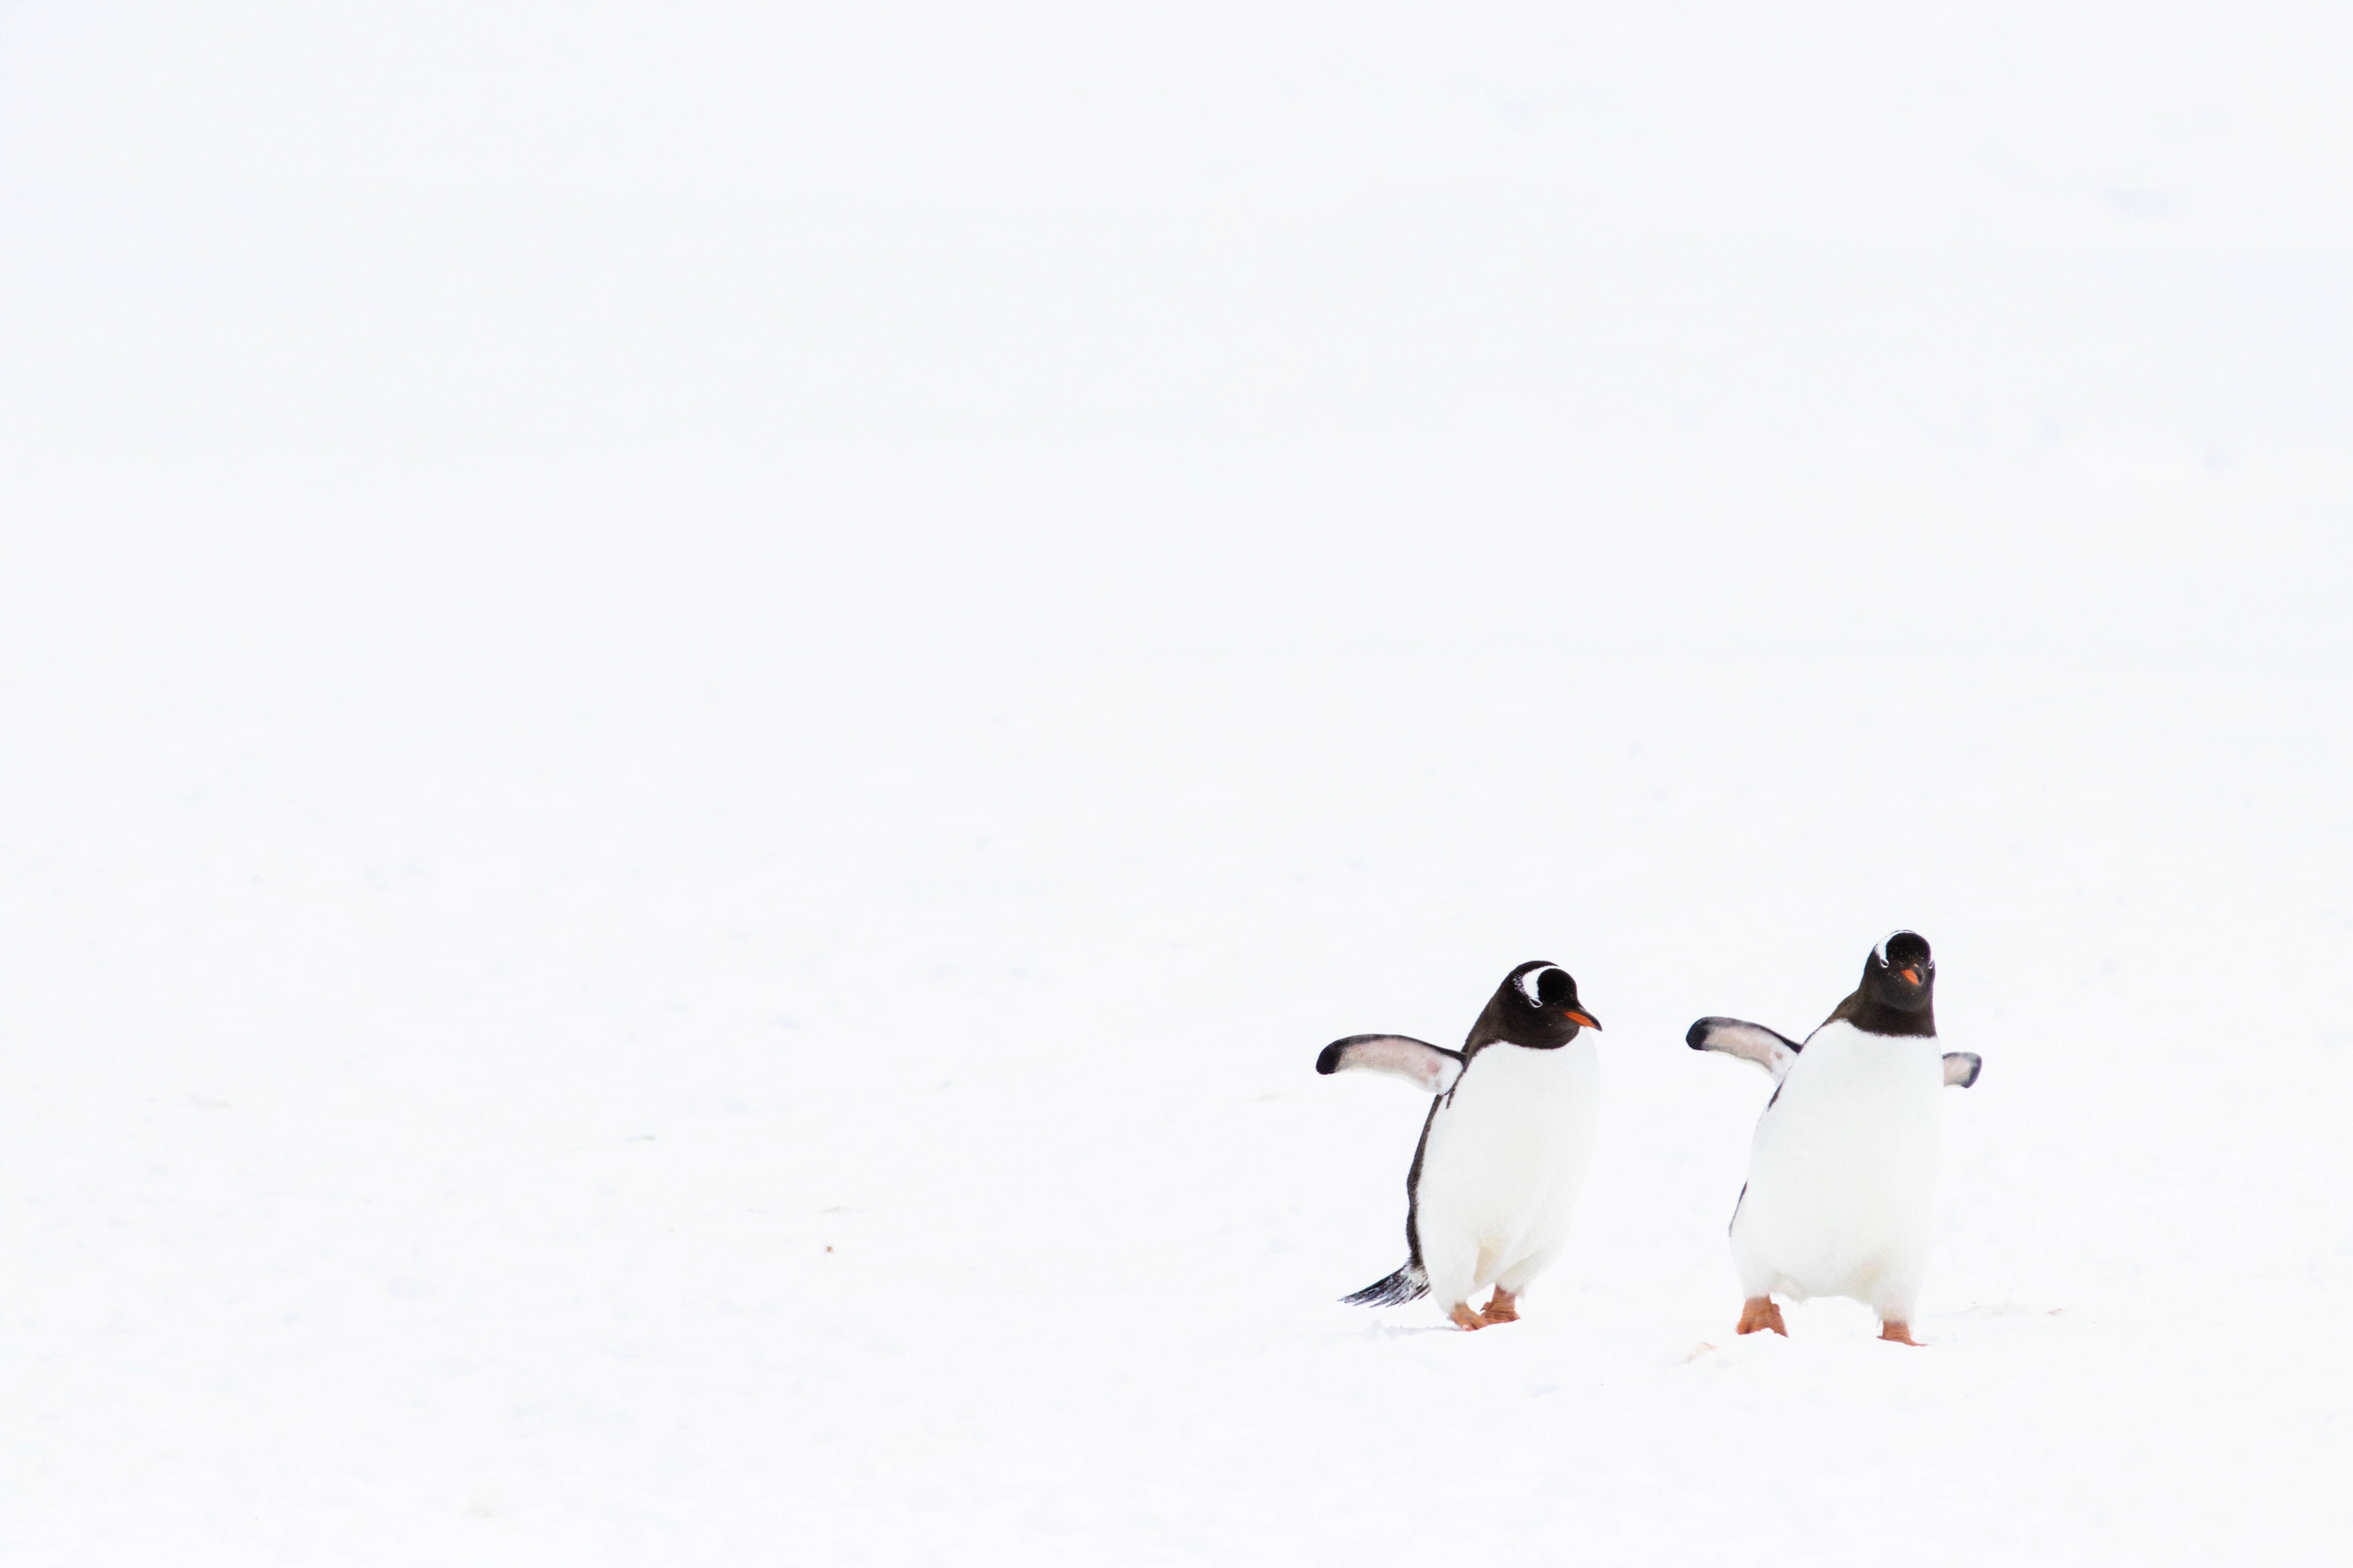
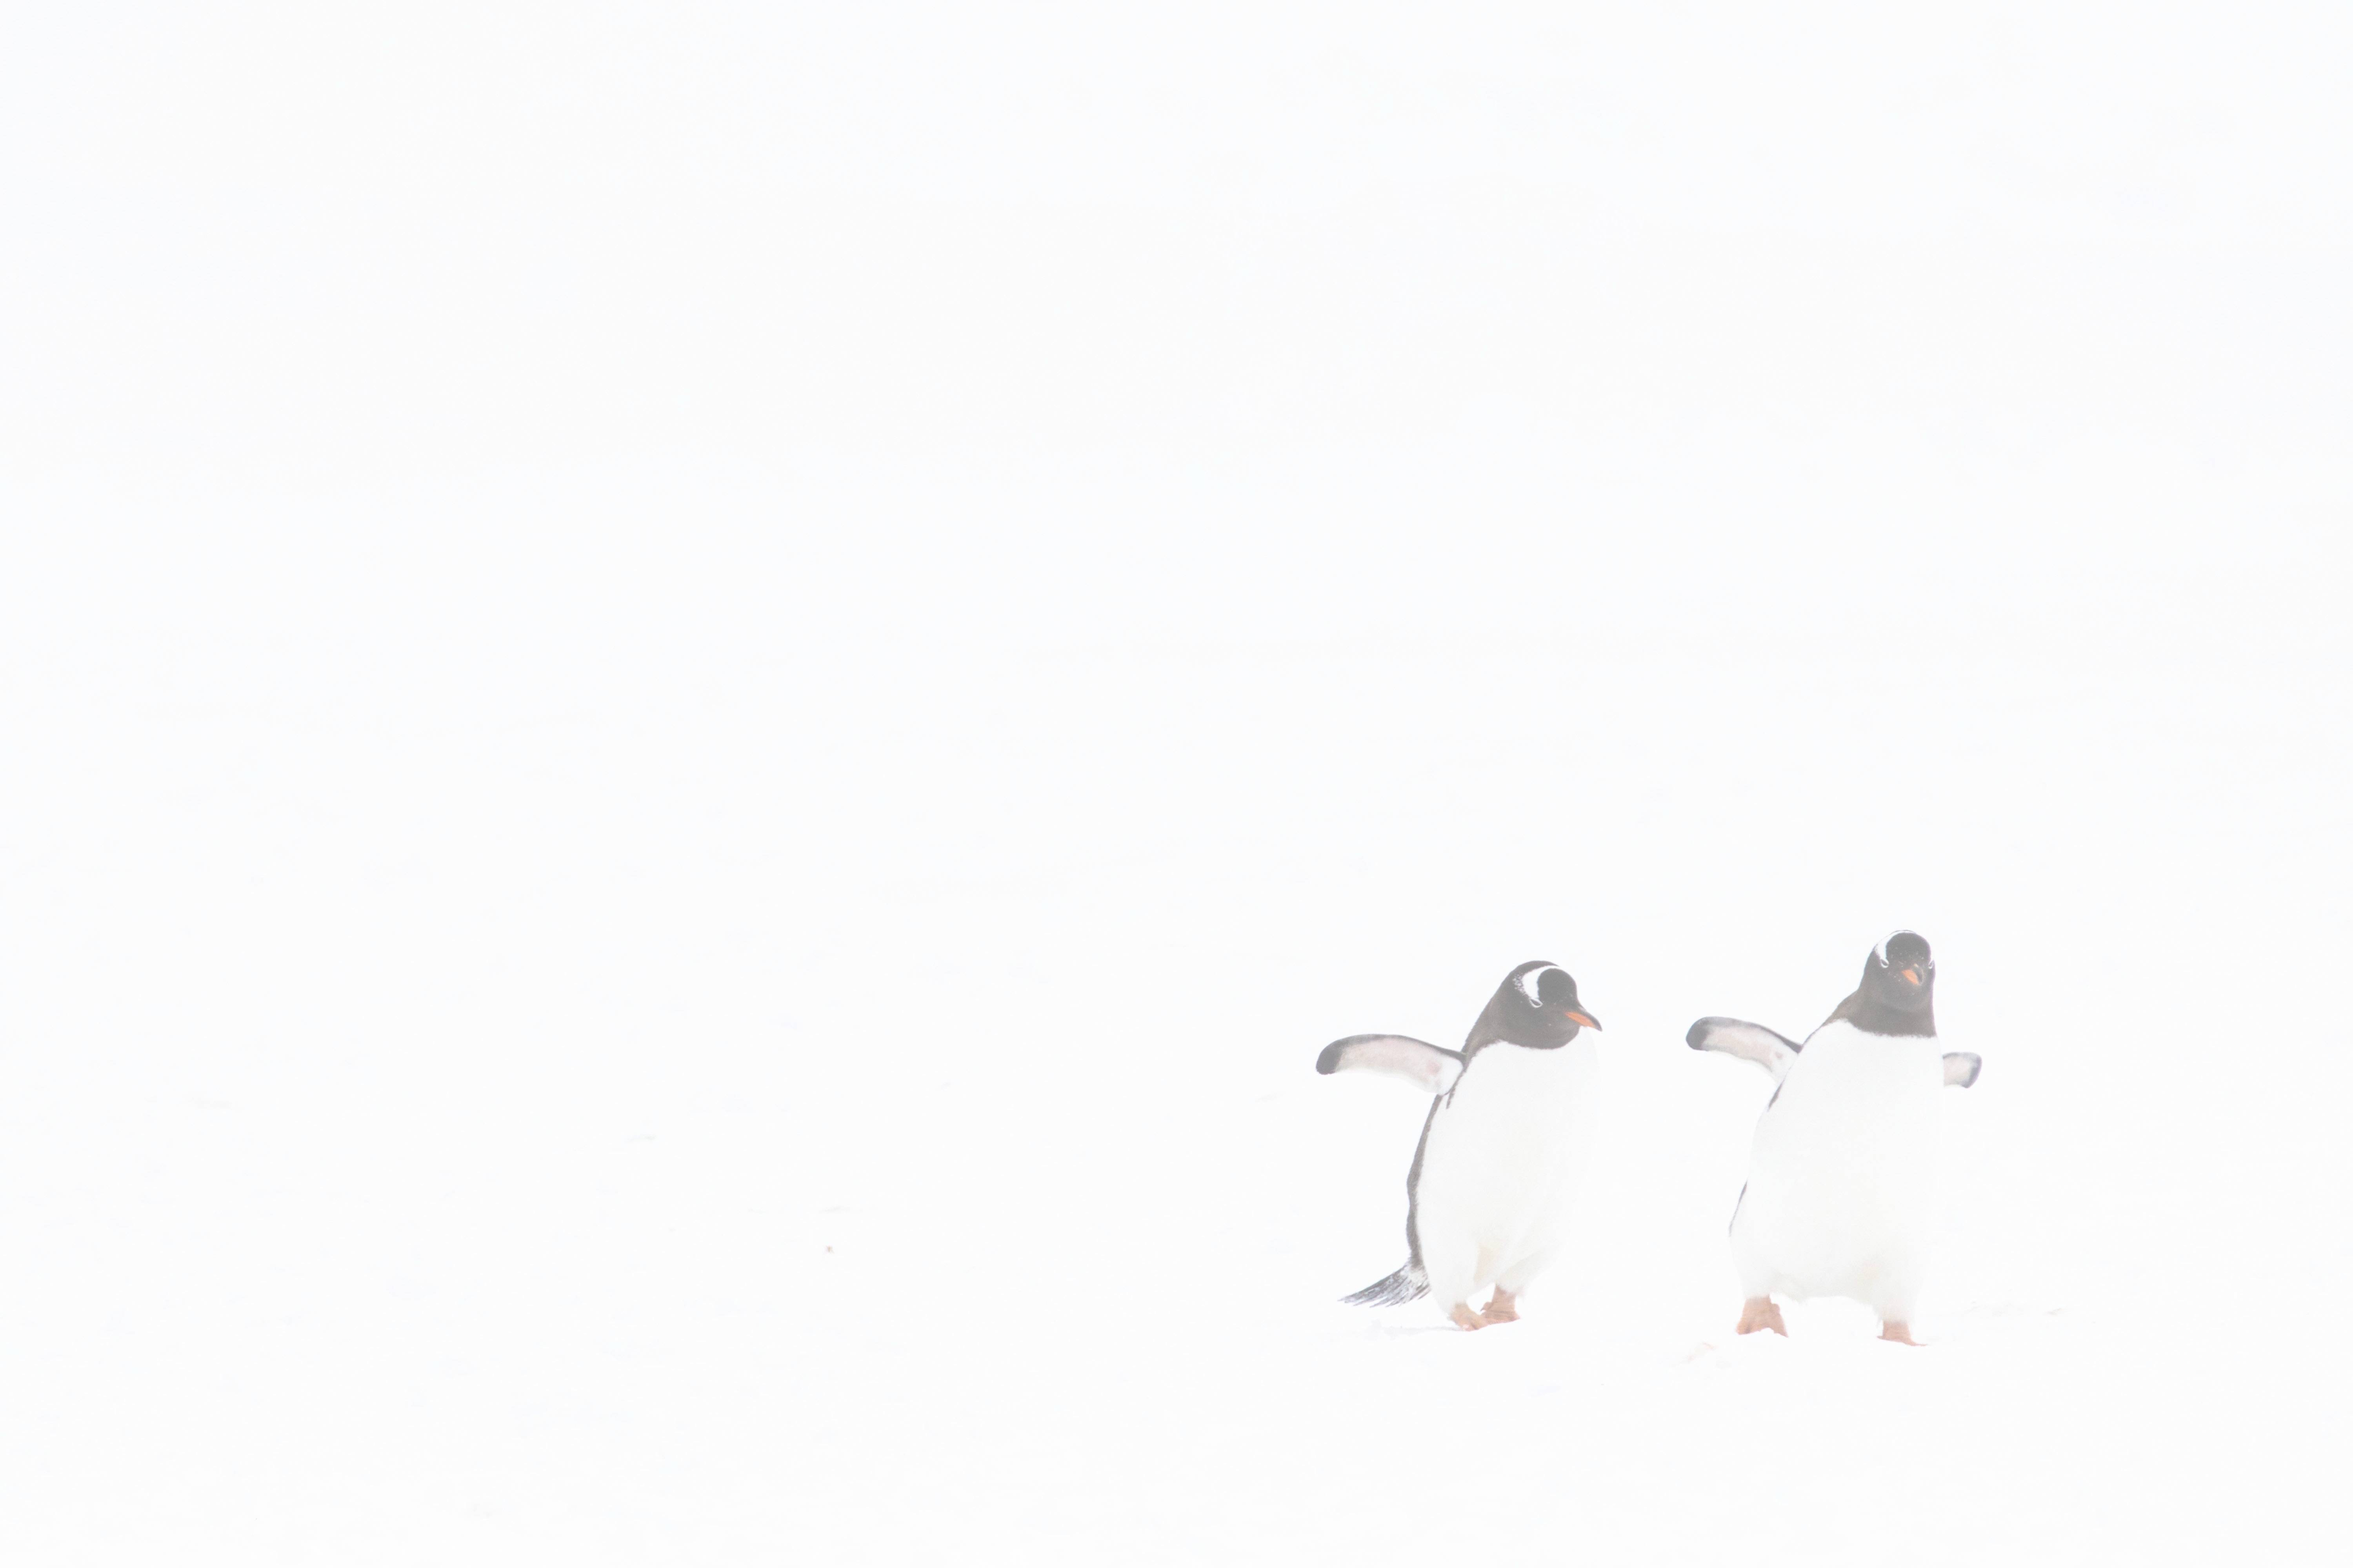
FE_StyleUpdate02

Changed region(s): [[0.561, 0.5938, 0.6857, 0.8438], [0.7168, 0.5938, 0.8415, 0.6875], [0.7168, 0.8125, 0.8103, 0.875]]

diff --git a/staking/client/src/pages/home.js b/staking/client/src/pages/home.js
@@ -4,7 +4,7 @@ export default function Home() {
     return(
         <div>
             <div style={{marginLeft:"8VW",marginTop:"45VH"}}>
-                <img src={require("../images/logoName.png")}></img>
+                <img style={{width:"35VW"}} src={require("../images/logoName.png")}></img>
             </div>
             <h1 style={{ 
                 fontSize: "1.5VW", 

diff --git a/staking/client/src/pages/App.css b/staking/client/src/pages/App.css
@@ -1,5 +1,5 @@
 .App {
-  background-color: #f6f7f9;
+  background-color: #fbfcfe;
   text-align: center;
   min-height: 100vh; /* required for full page background */
   background-repeat: "no-repeat";
